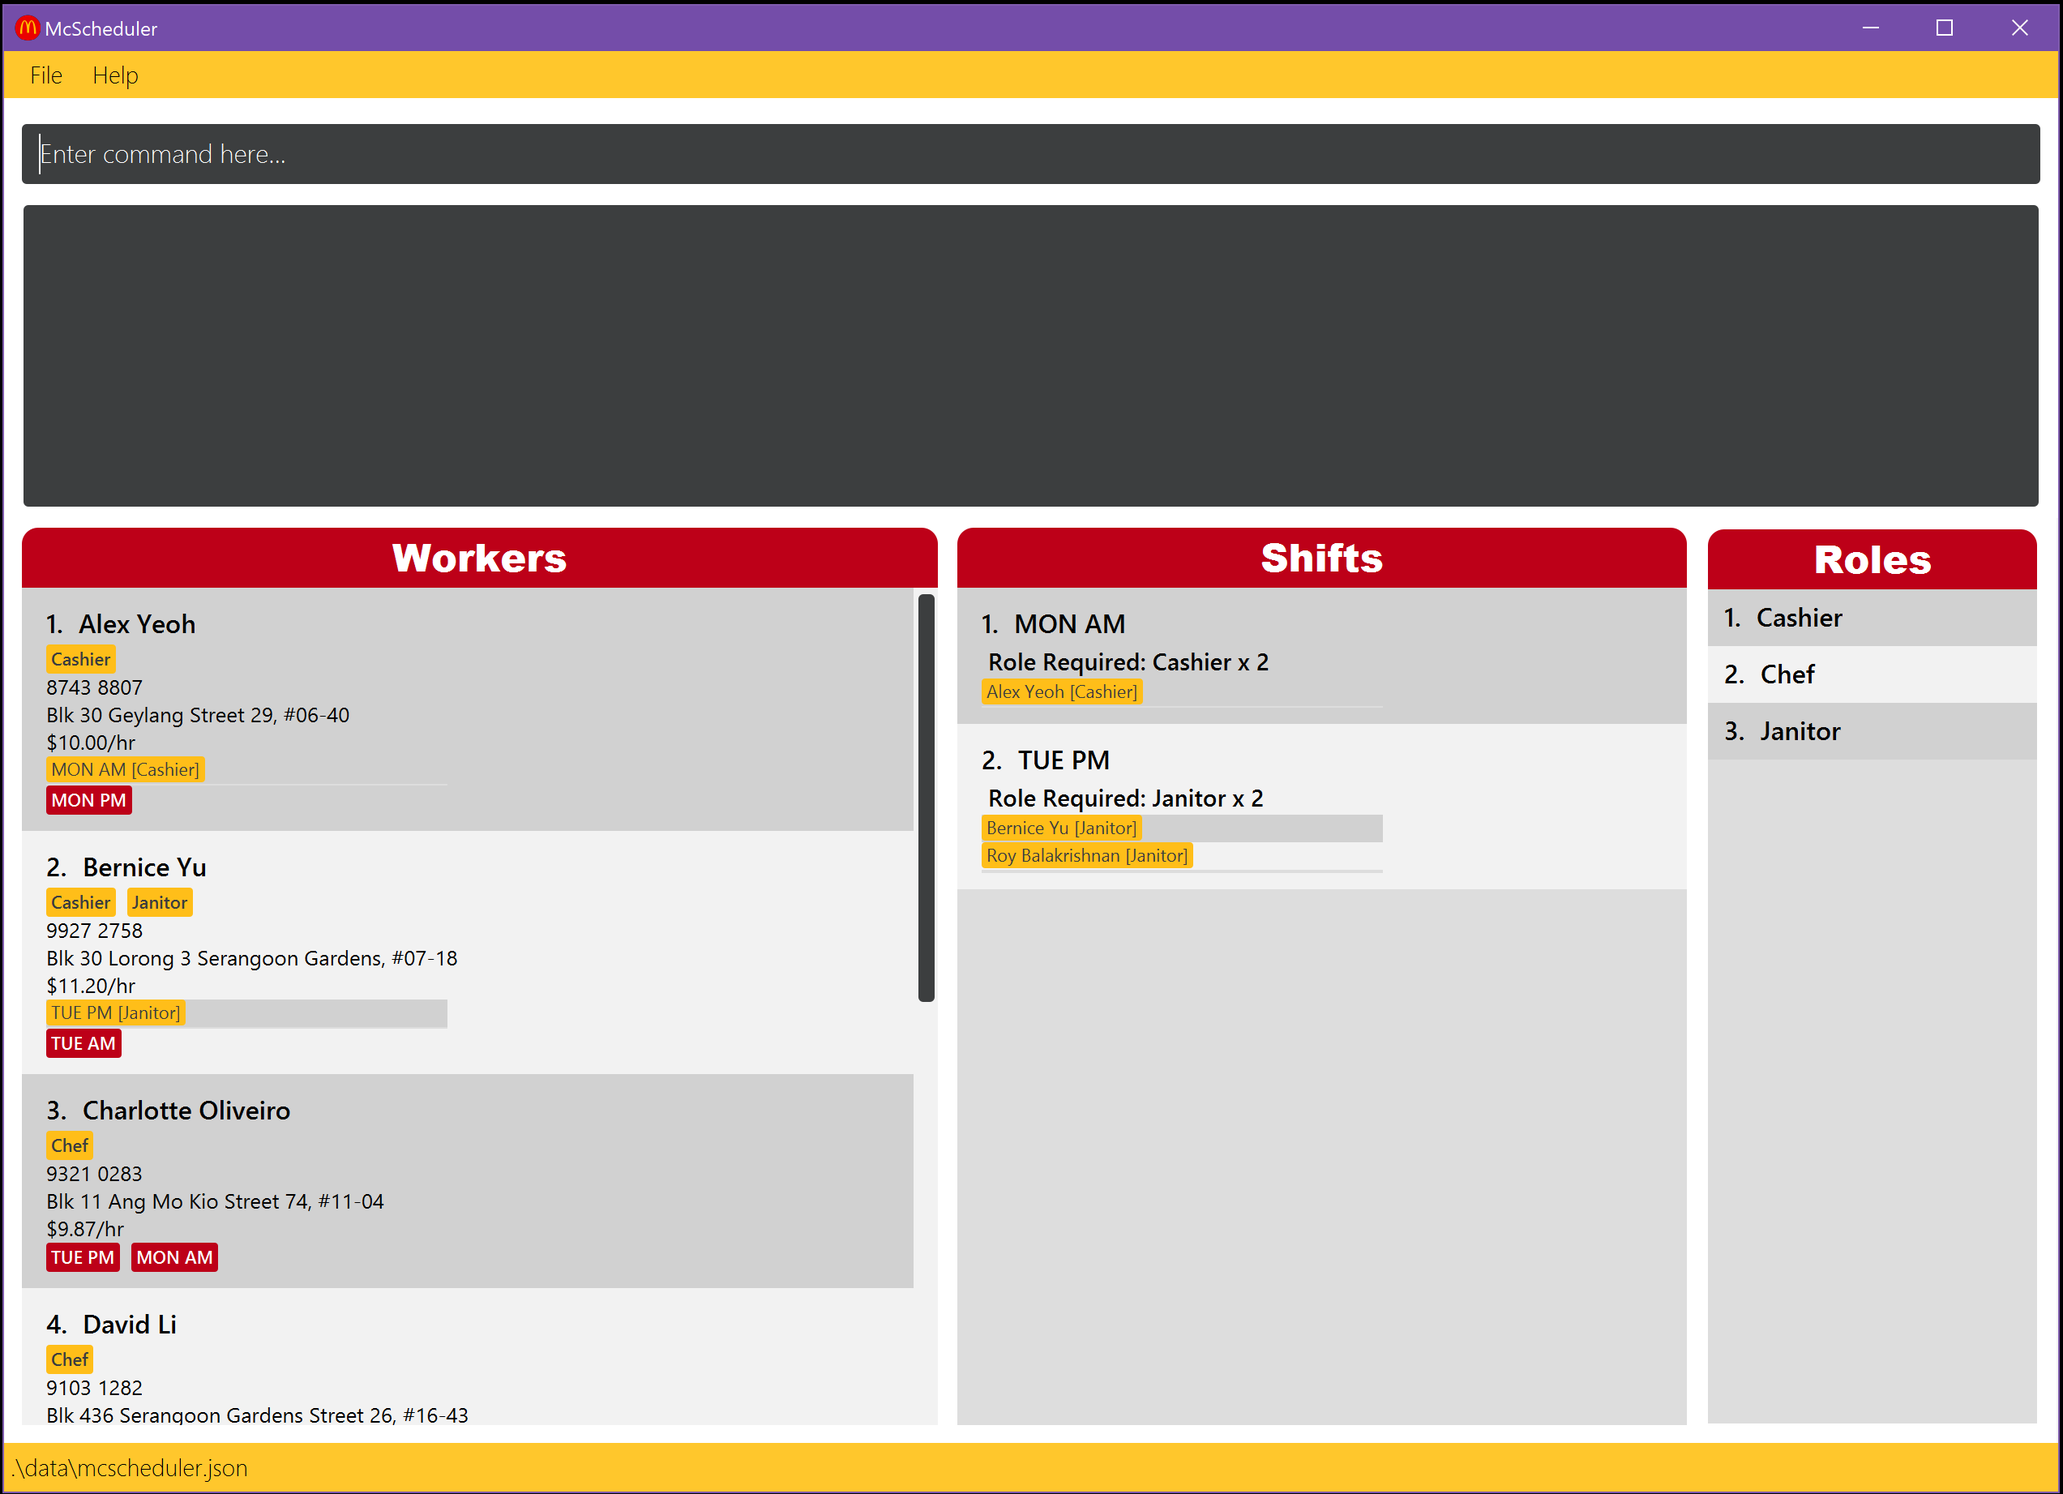
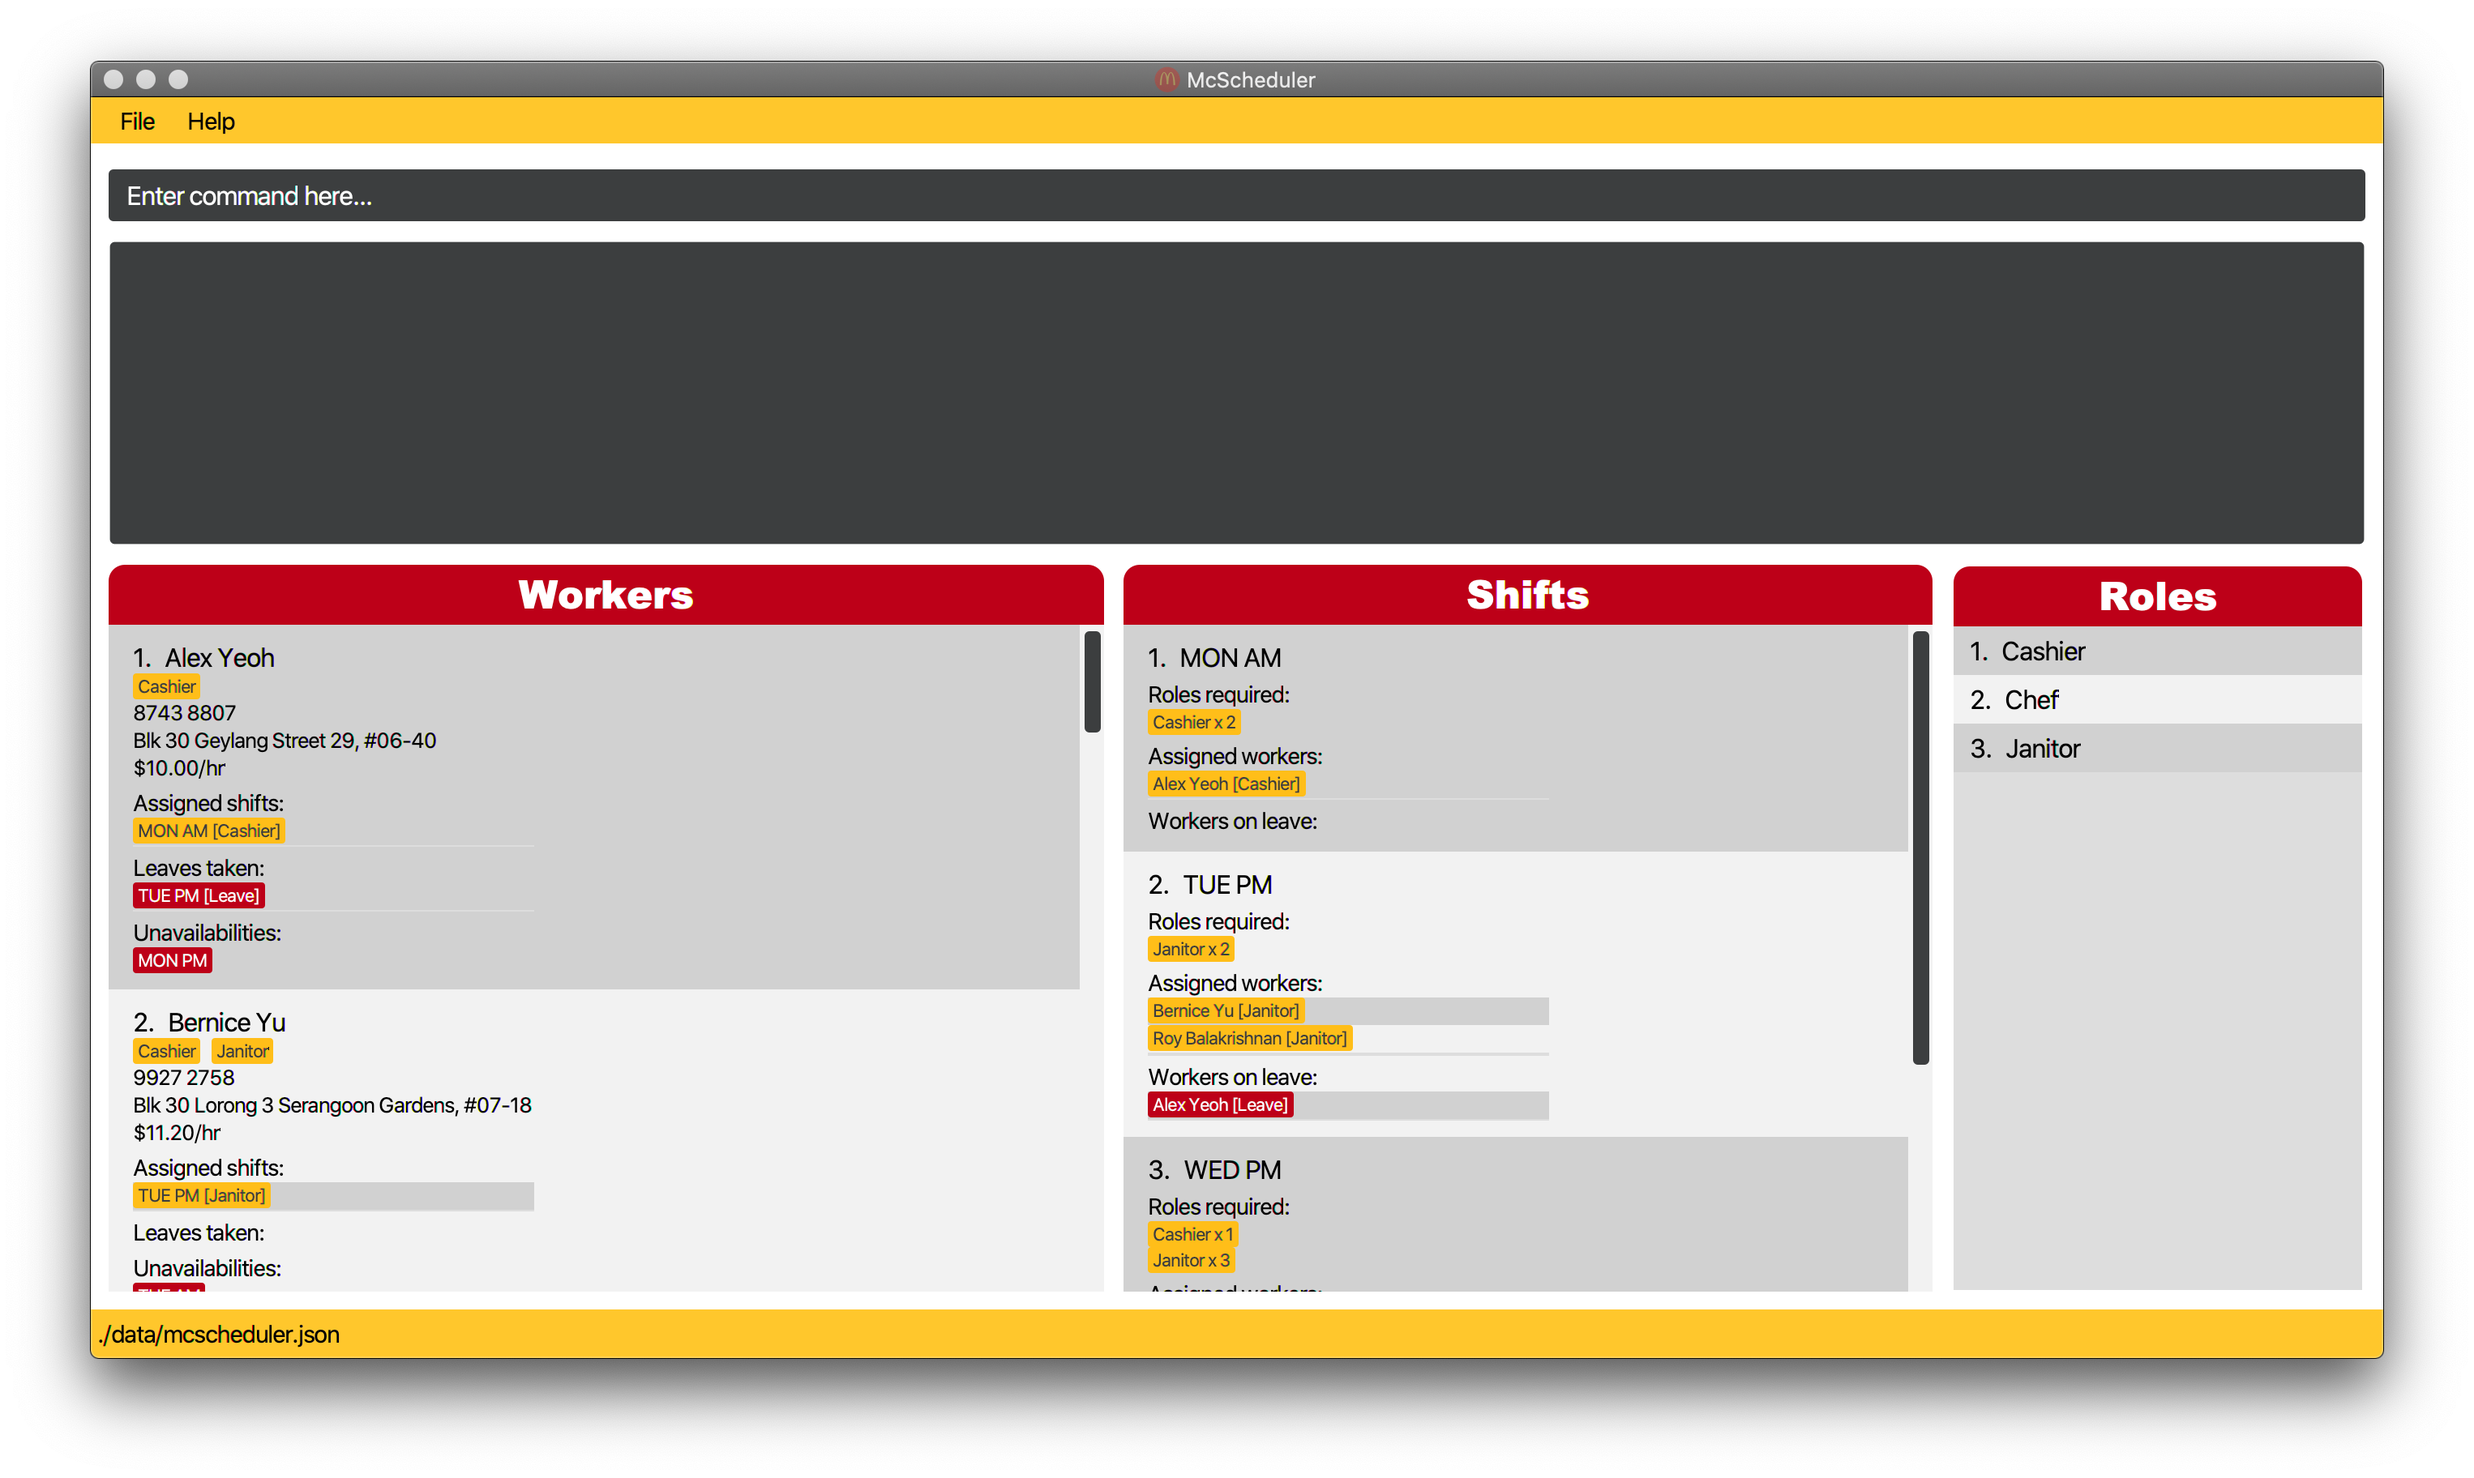
Add flowpane headers to GUI

diff --git a/src/main/resources/view/McTheme.css b/src/main/resources/view/McTheme.css
@@ -114,10 +114,21 @@
     -fx-text-fill: #000000;
 }
 
+.cell_med_label {
+    -fx-font-family: "Segoe UI";
+    -fx-font-weight: bold;
+    -fx-font-size: 14px;
+    -fx-text-fill: #000000;
+}
+
 .cell_small_label {
     -fx-font-family: "Segoe UI";
     -fx-font-size: 13px;
     -fx-text-fill: #000000;
+}
+
+.cell_tiny_label {
+    -fx-font-size: 2px;
 }
 
 .stack-pane {
@@ -278,7 +289,8 @@
 #shiftAssignments,
 #workerAssignments,
 #unavailableTimings,
-#leaveShiftAssignments {
+#leaveShiftAssignments,
+#roleRequirements {
     -fx-hgap: 7;
     -fx-vgap: 3;
 }
@@ -288,7 +300,8 @@
 #workerAssignments .label,
 #unavailableTimings .label,
 #leaveShiftAssignments .label,
-#leaveWorkerAssignments .label {
+#leaveWorkerAssignments .label,
+#roleRequirements .label {
     -fx-padding: 1 3 1 3;
     -fx-border-radius: 2;
     -fx-background-radius: 2;
@@ -297,7 +310,8 @@
 
 #roles .label,
 #shiftAssignments .label,
-#workerAssignments .label {
+#workerAssignments .label,
+#roleRequirements .label {
     -fx-background-color: #ffbe19;
     -fx-text-fill: #3c3e3f;
 }

diff --git a/src/main/java/mcscheduler/model/shift/RoleRequirement.java b/src/main/java/mcscheduler/model/shift/RoleRequirement.java
@@ -147,8 +147,7 @@ public class RoleRequirement {
     @Override
     public String toString() {
         final StringBuilder builder = new StringBuilder();
-        builder.append(" Role Required: ")
-                .append(getRole())
+        builder.append(getRole())
                 .append(" x ")
                 .append(getQuantityRequired());
         return builder.toString();
